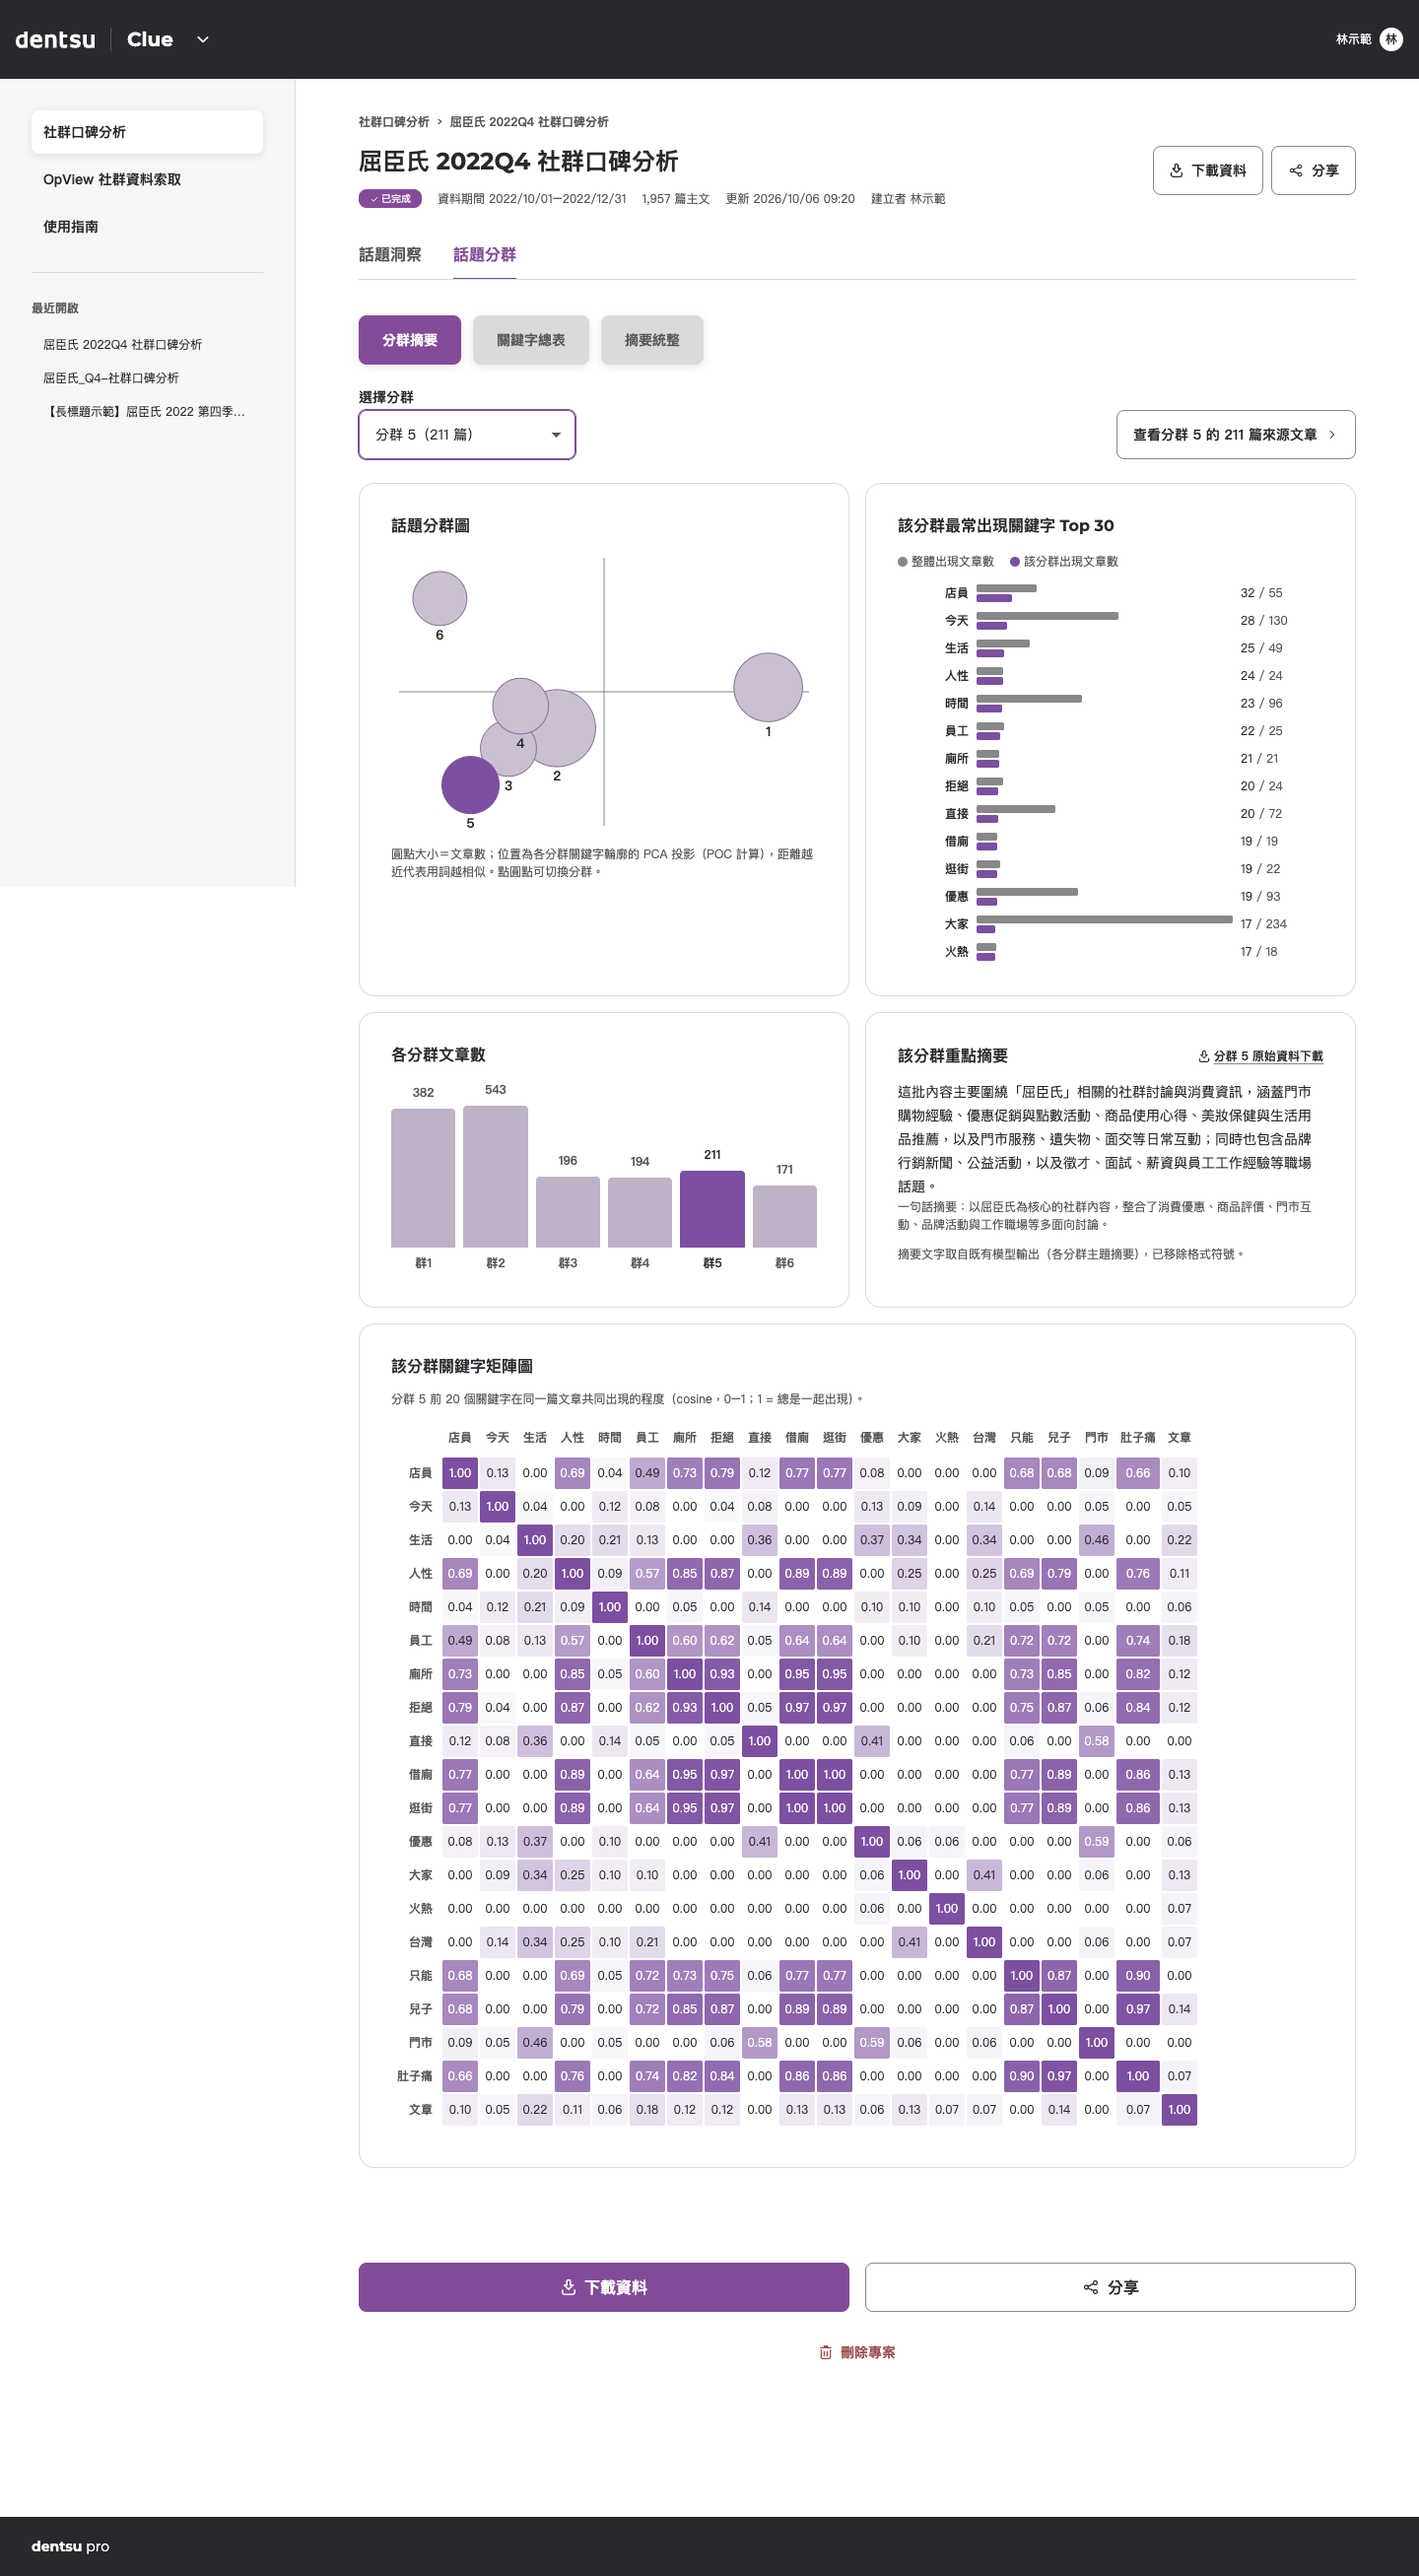
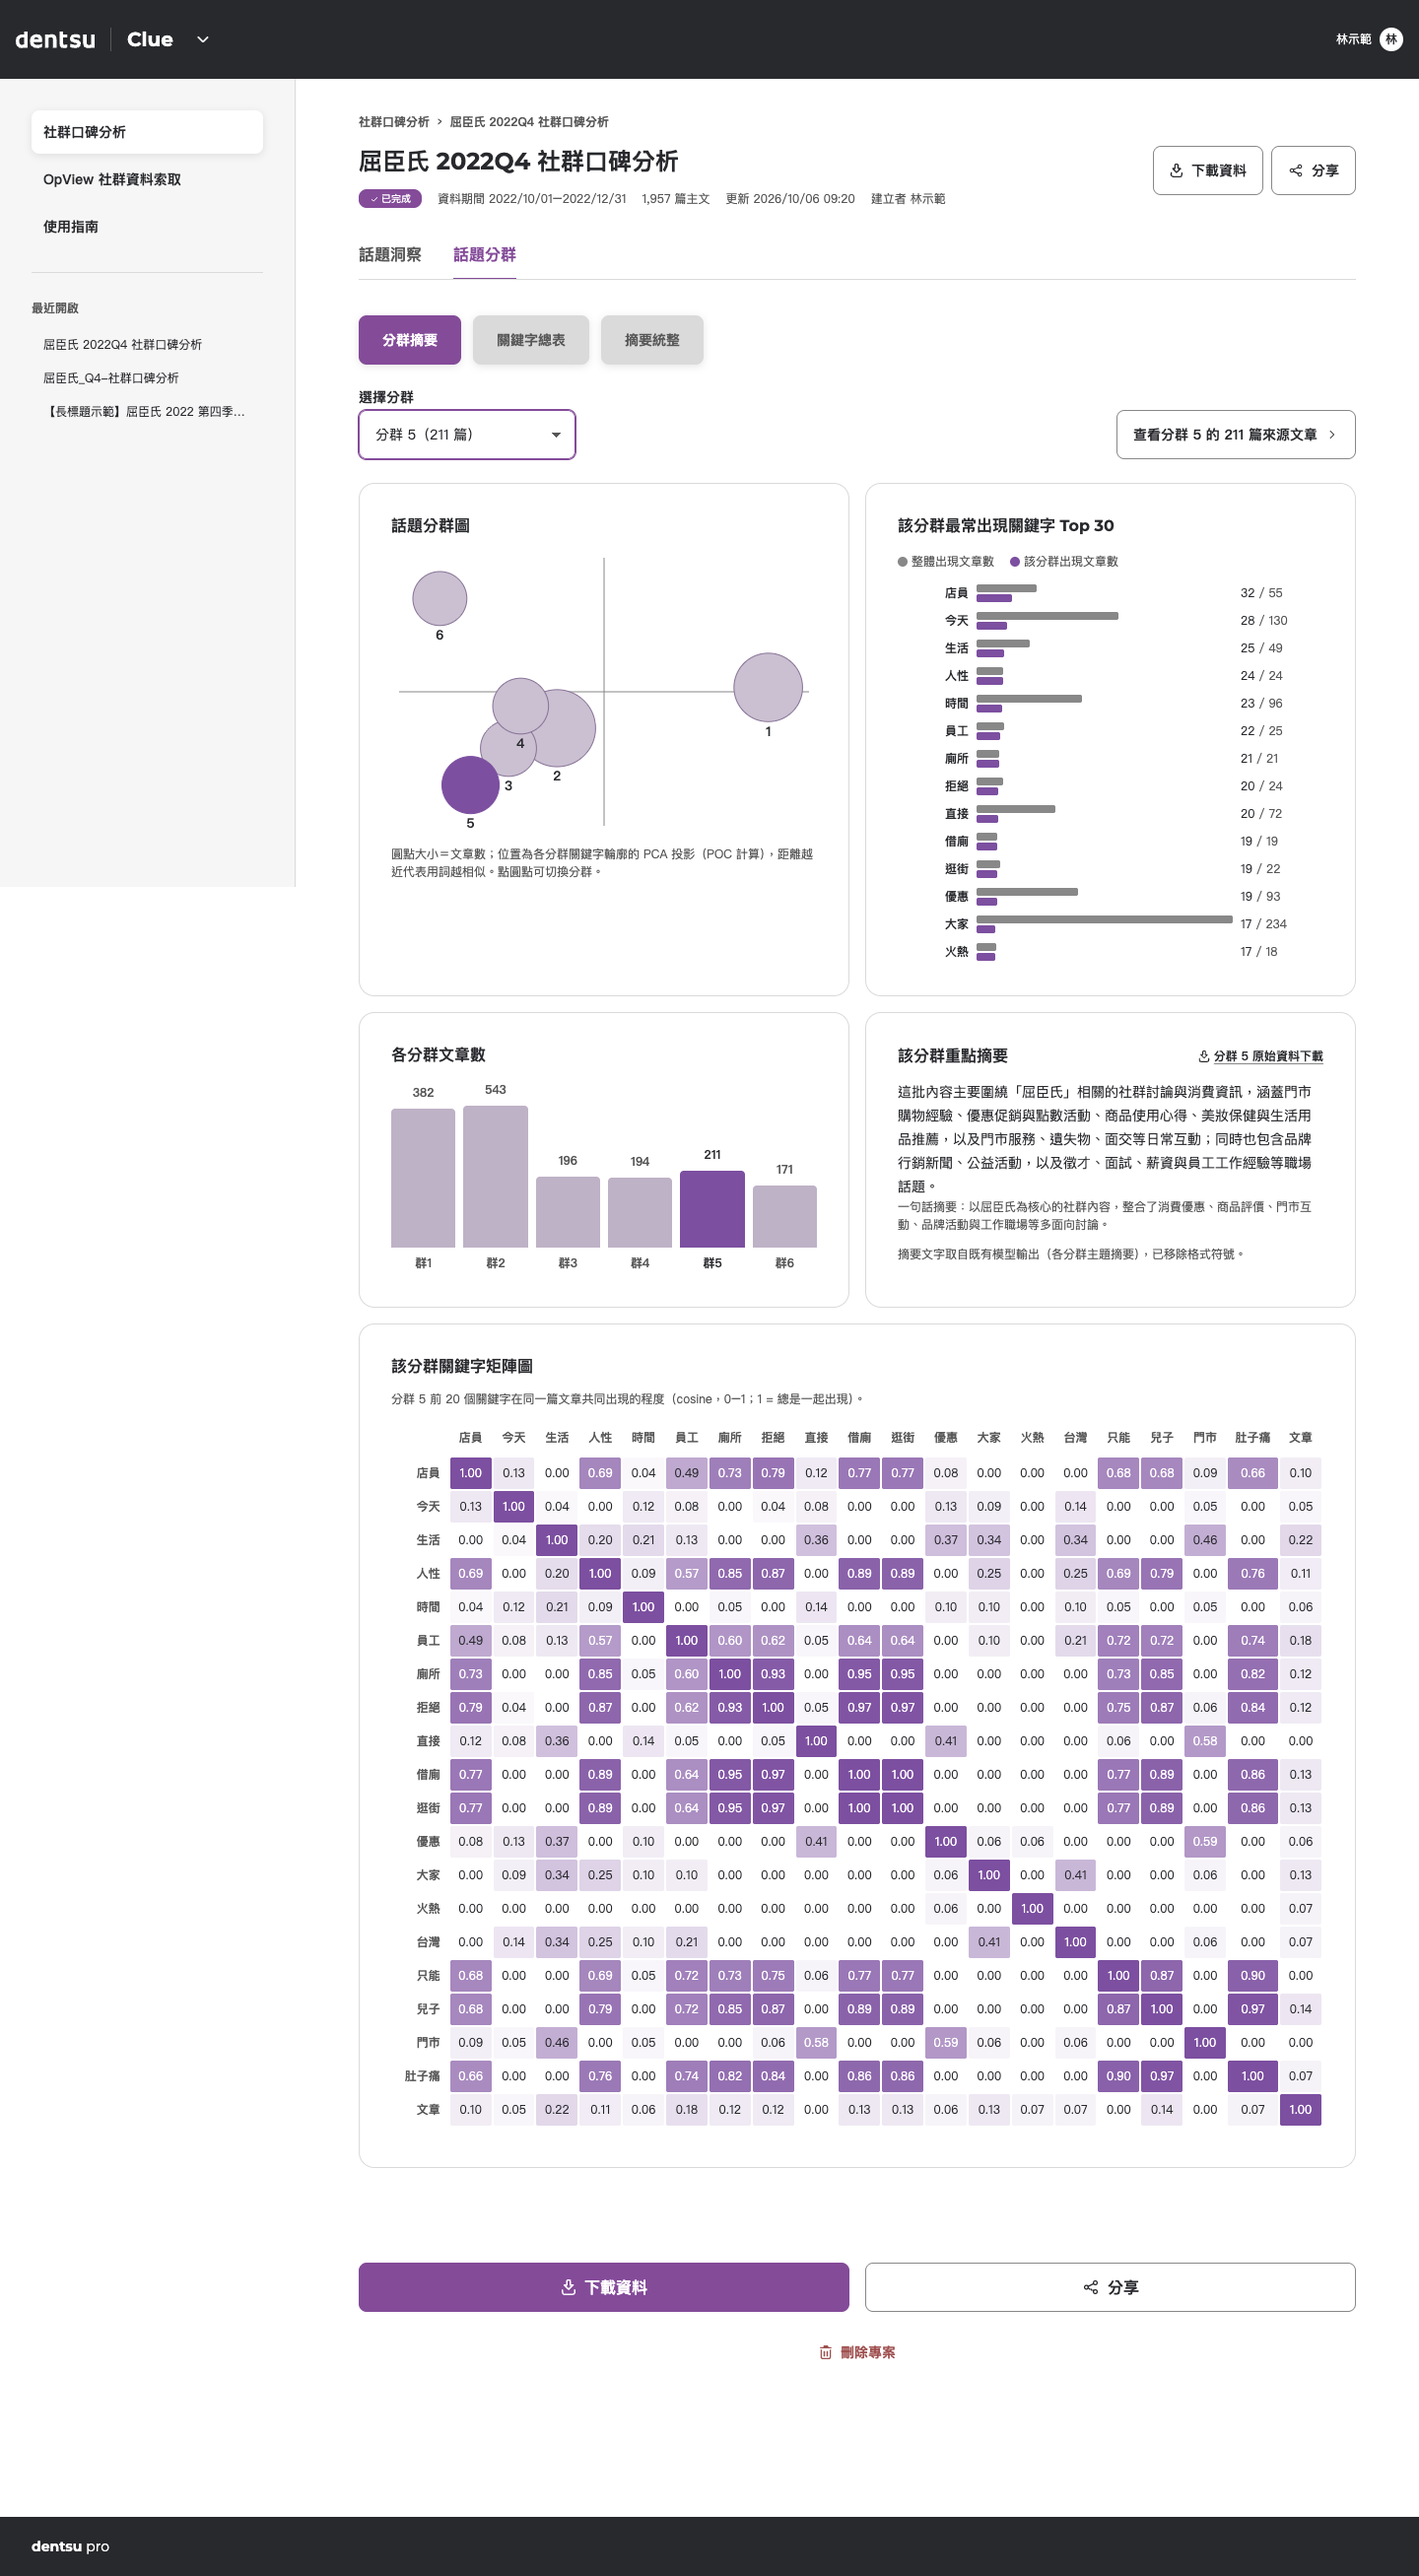
Make heatmap and keyword-matrix tables fill their container width
Both <table class="heat"> instances (post-time heatmap in 話題洞察,
keyword co-occurrence matrix in 話題分群) previously shrank to content
width inside their scroll container instead of filling it. Added
width: 100% so the browser's auto table layout distributes the extra
space across columns.

211/211 E2E checks pass (added 2 new width-fill assertions).

Changed region(s): [[0.2812, 0.5578, 0.9375, 0.8366], [0.9062, 0.7127, 0.9375, 0.7437]]

diff --git a/poc/styles/app.css b/poc/styles/app.css
@@ -671,7 +671,7 @@ a.hbar__link:hover { background: var(--ds-color-bg-subtle); }
 .linechart__line--total { stroke: var(--poc-chart-data-strong); stroke-width: 2.25; }
 .linechart__line--pos { stroke: var(--ds-color-success); }
 .linechart__line--neg { stroke: var(--poc-status-failed); }
-.heat { border-collapse: separate; border-spacing: 2px; font-size: var(--ds-font-size-body); }
+.heat { width: 100%; border-collapse: separate; border-spacing: 2px; font-size: var(--ds-font-size-body); }
 .heat th { font-weight: var(--ds-font-weight-bold); color: var(--ds-color-text-secondary); padding: var(--ds-space-xxs); white-space: nowrap; text-align: center; }
 .heat tbody th { text-align: right; padding-right: var(--ds-space-xs); position: sticky; left: 0; background: var(--ds-color-bg-card); }
 .heat td { min-inline-size: 36px; padding: var(--ds-space-xxs); text-align: center; border-radius: 2px; background: color-mix(in srgb, var(--poc-chart-data-strong) var(--p), var(--ds-color-bg-card)); }

diff --git a/poc/README.md b/poc/README.md
@@ -71,6 +71,10 @@ NODE_PATH=<含 xlsx 套件的 node_modules> node scripts/build-watsons-data.cjs 
 
 情緒標籤（話題洞察的「情緒傾向」、來源文章的「正面／中立／負面」）沿用同一個樣式：偏正面／正面＝紫底白字、中立＝灰框、偏負面／負面＝咖啡底白字。
 
+## 表格寬度撐滿容器
+
+「發布時段分析」的貼文熱力圖，以及「話題分群」裡的關鍵字矩陣圖，兩個表格的寬度改為撐滿所在卡片／容器寬度（fill container），不再維持內容原本的窄寬度。
+
 ## 首頁與 OpView 索取頁的收尾
 
 - Hero 下方的分隔線已移除。
@@ -190,7 +194,7 @@ js/data/seed.js               ← 合成資料：Analysis／Dataset／Topic／In
 js/core/{router,store,telemetry,dom}.js
 js/views/{workbench,create,analysis,poc-panel,ui,icons}.js
 styles/{bridge,theme-clue,app}.css
-tests/e2e.mjs                 ← puppeteer-core 端到端驗證（209 項）
+tests/e2e.mjs                 ← puppeteer-core 端到端驗證（211 項）
 ```
 
 `localStorage` 只保存合成分析資料與介面狀態，**不保存檔案內容**。重新整理頁面後，會明確要求重新選擇檔案。

diff --git a/poc/docs/verification.md b/poc/docs/verification.md
@@ -91,6 +91,7 @@
 ✅ 鍵盤 focus 同樣顯示提示（可 Tab 到達）
 ✅ Esc 關閉提示
 ✅ 話題洞察標示非 AI 模型撰寫
+✅ 發布時段熱力圖寬度撐滿容器（fill container） — {"t":1012,"c":1012}
 ✅ 底部有下載資料／分享大按鍵與刪除專案 — 下載資料|分享|刪除專案
 ✅ 只有一個主要 CTA
 ✅ 方向鍵切到「話題分群」，預設顯示第二層「分群摘要」
@@ -98,6 +99,7 @@
 ✅ 切到分群 5：直條圖與泡泡圖同步強調
 ✅ 分群 5 關鍵字 Top 30 來自真實資料（店員…） — 店員、今天、生活
 ✅ 關鍵字矩陣 20×20、對角線 1.00
+✅ 關鍵字矩陣表寬度撐滿容器（fill container） — {"t":946,"c":946}
 ✅ 網址保留分頁與分群
 ✅ 關鍵字總表：總表 30 筆、分群表 180 筆
 ✅ 分群篩選只顯示分群 6
@@ -214,7 +216,7 @@
 ✅ 沒有對外部服務送出請求
 ✅ Console 無錯誤
 
-209/209 項通過
+211/211 項通過
 ```
 
 ## 對比（白底／白字）
